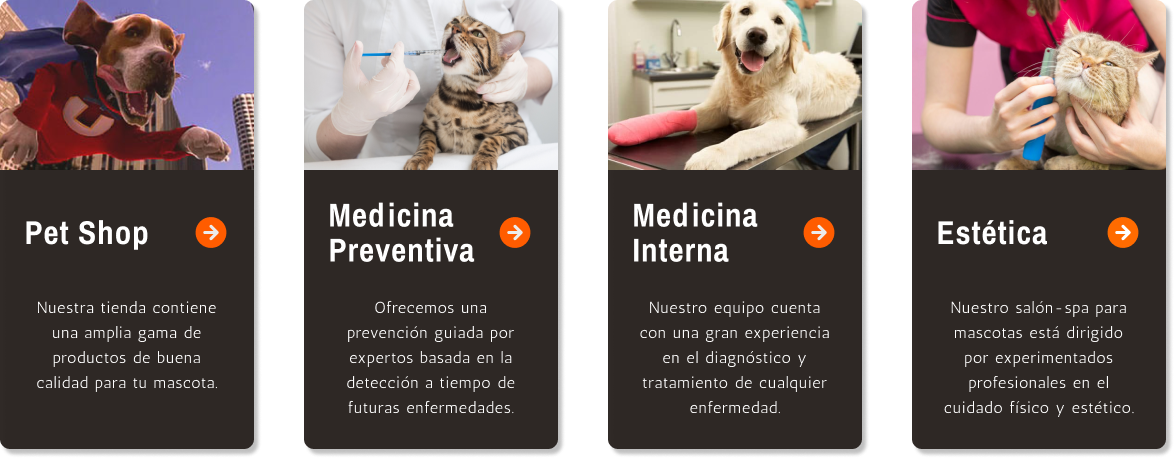
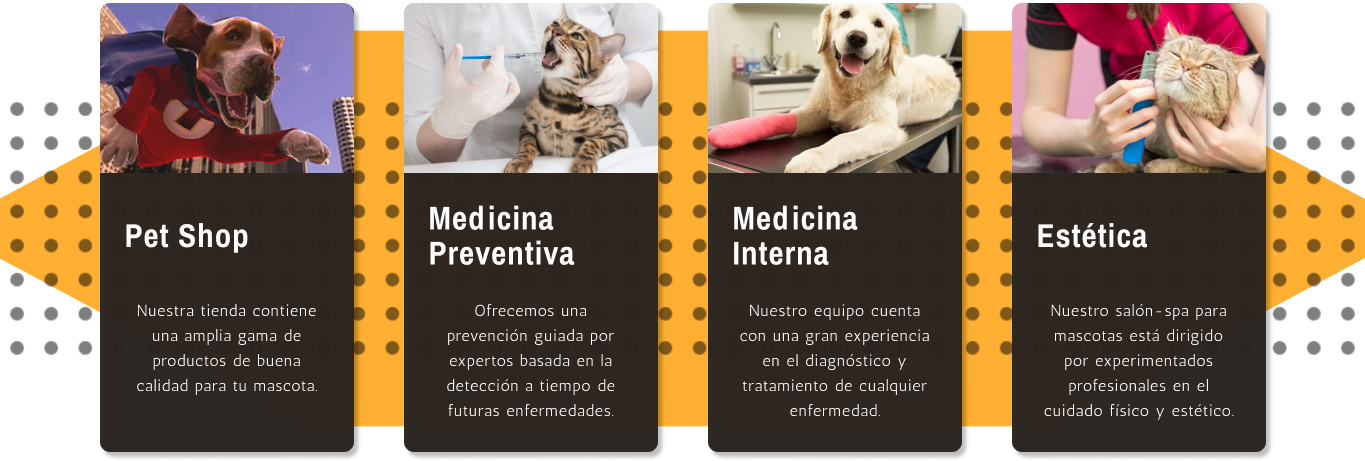
Actualizar index

diff --git a/index.html b/index.html
@@ -75,23 +75,36 @@
                 <img id="img_servicios" src="img/servicios.png" alt="servicios">
                 <div class="subrayado"></div>
                 <div id="lista_servicios">
+                    <button id="flecha"><img src="img/vector.png" alt="flecha"></button>
                     <img id="lista" src="img/lista_servicios.png" alt="lista_servicios">
+                    <!-- <img id="lista" src="img/frame_servicios.png" alt="lista_servicios"> -->
                 </div>
             </div>
         </section>
 
         <section id="contact" class="secciones">
             <div class="section-contenedor">
-                <h2>Contacto</h2>
+                <div class="columna1">
+                    <img id="img_contactanos" src="img/contactanos.png" alt="contactanos">
+                    <div class="subrayado"></div>
+                    <div id="descripcion">
+                        <h3 id="contact_1" class="text_contact">
+                            Av. San Borja Norte 499 San Borja - L41 Lima - Perú Altura Cdra. 26 de la Av. Aviación
+                        </h3>
+                        <h3 id="contact_2" class="text_contact">
+                            Central: 223 2180 Móvil: 954 732 154 Email: veterinaria@petworld.com
+                        </h3>
+                        <h3 id="contact_3" class="text_contact">
+                            Horarios de Atención: Lunes a Viernes: de 08am a 08pm Sábados: de 08am a 01pm
+                        </h3>
+                    </div>
+                    <div id="img_about_conocenos">
+                    </div>
+                </div>
 
-                <body class="contactBody">
-                    <form method="POST" class="form_contact">
-                        <input type="text" class="name entry" name="nombre" placeholder="Tu nombre" required>
-                        <input type="text" class="email entry" name="correo" placeholder="Email" required>
-                        <textarea class="message entry" placeholder="mensaje" required></textarea>
-                        <button class="submit entry" onclick="">Enviar</button>
-                    </form>
-                </body>
+                <div class="columna2">
+
+                </div>
             </div>
         </section>
     </main>

diff --git a/estilos.css b/estilos.css
@@ -158,10 +158,6 @@ a {
     border: none;
     box-shadow: 3px 4px 4px rgba(0, 0, 0, 0.25);
     border-radius: 6px;
-    font-weight: bold;
-    font-size: 18px;
-    line-height: 20px;
-    letter-spacing: 2px;
     padding: 5px 10px;
     cursor: pointer;
     transition: 0.4s;
@@ -217,24 +213,58 @@ a {
     height: 198px;
     margin-left: 105px;
     margin-bottom: 25px;
-    background: url("img/about_veterinaria.png");
+    background: url("img/about_img.png");
     background-size: cover;
 }
 
 
 /* Servicios */
 
+
+/* 
+.servicios-contenedor {
+    width: 99vw;
+} */
+
 #img_servicios {
     width: 590px;
     height: 50px;
 }
 
+
+/* 
+#puntos {
+    position: absolute;
+    width: 98vw;
+}
+
+#poligono {
+    position: absolute;
+    width: 98vw;
+} */
+
 #lista_servicios {
     margin-top: 24px;
-    width: 98vw;
+    width: 98.5vw;
     text-align: center;
 }
 
 #lista_servicios img {
+    /* width: 98vw; */
+    width: 98.792vw;
     height: 420px;
+}
+
+#flecha {
+    background-color: rgba(255, 122, 0);
+    cursor: pointer;
+    width: 30px;
+    height: 30px;
+    border-radius: 50%;
+    border: none;
+}
+
+#flecha img {
+    width: 15.5px;
+    height: 15.5px;
 }
